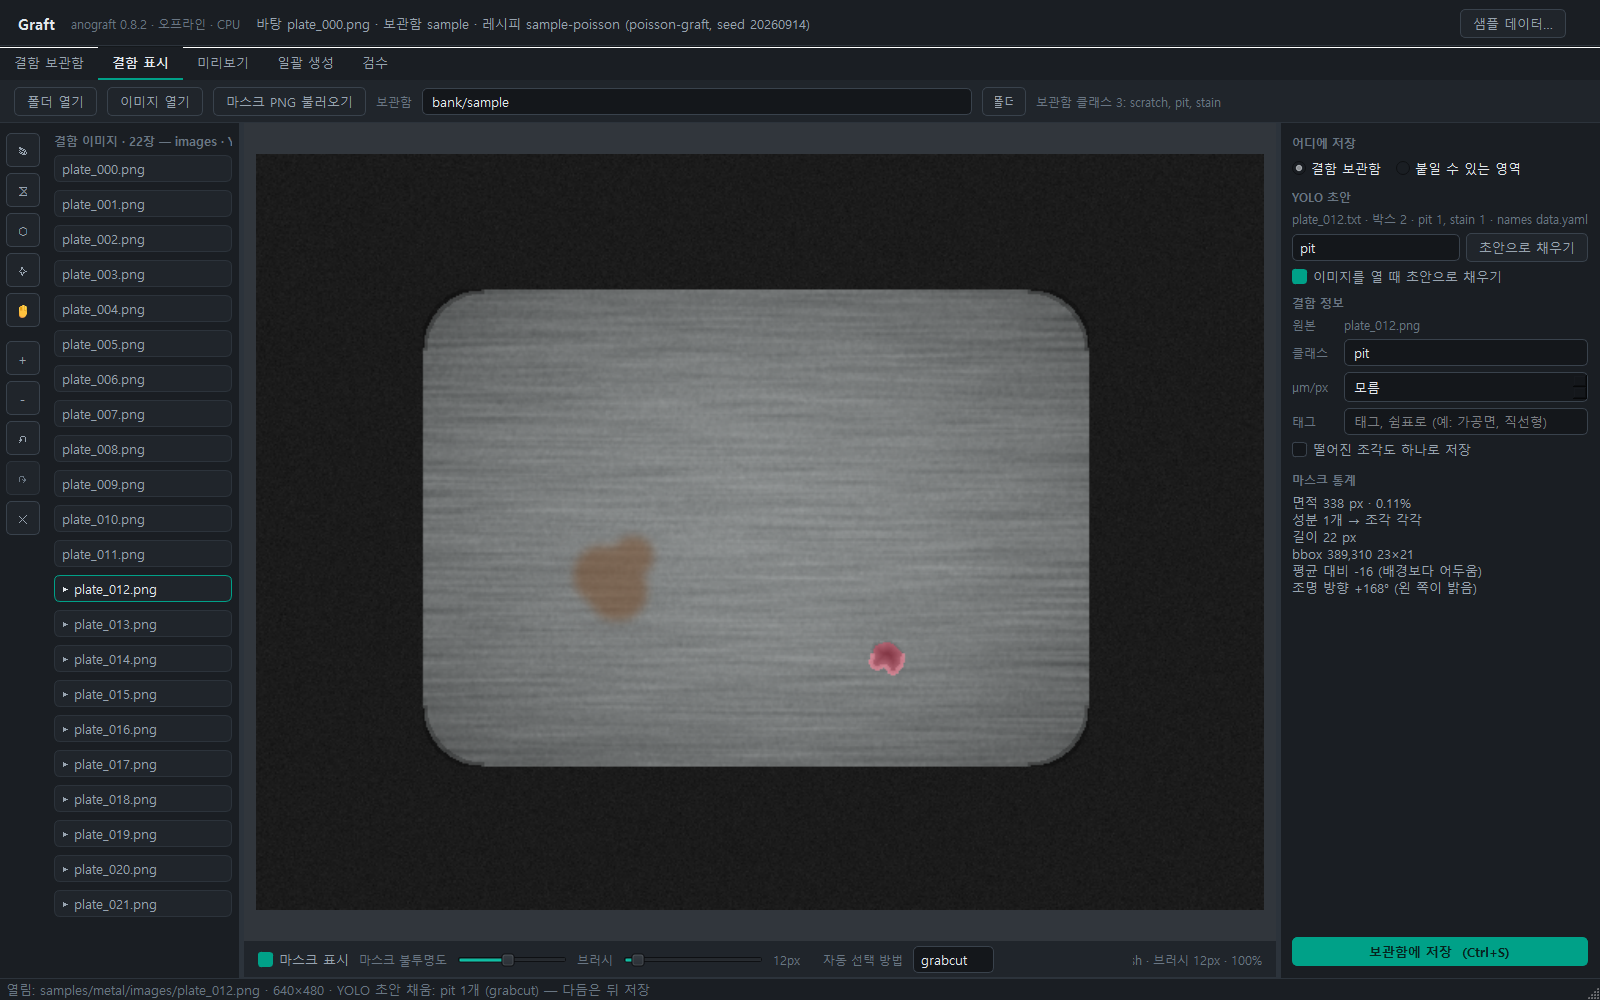
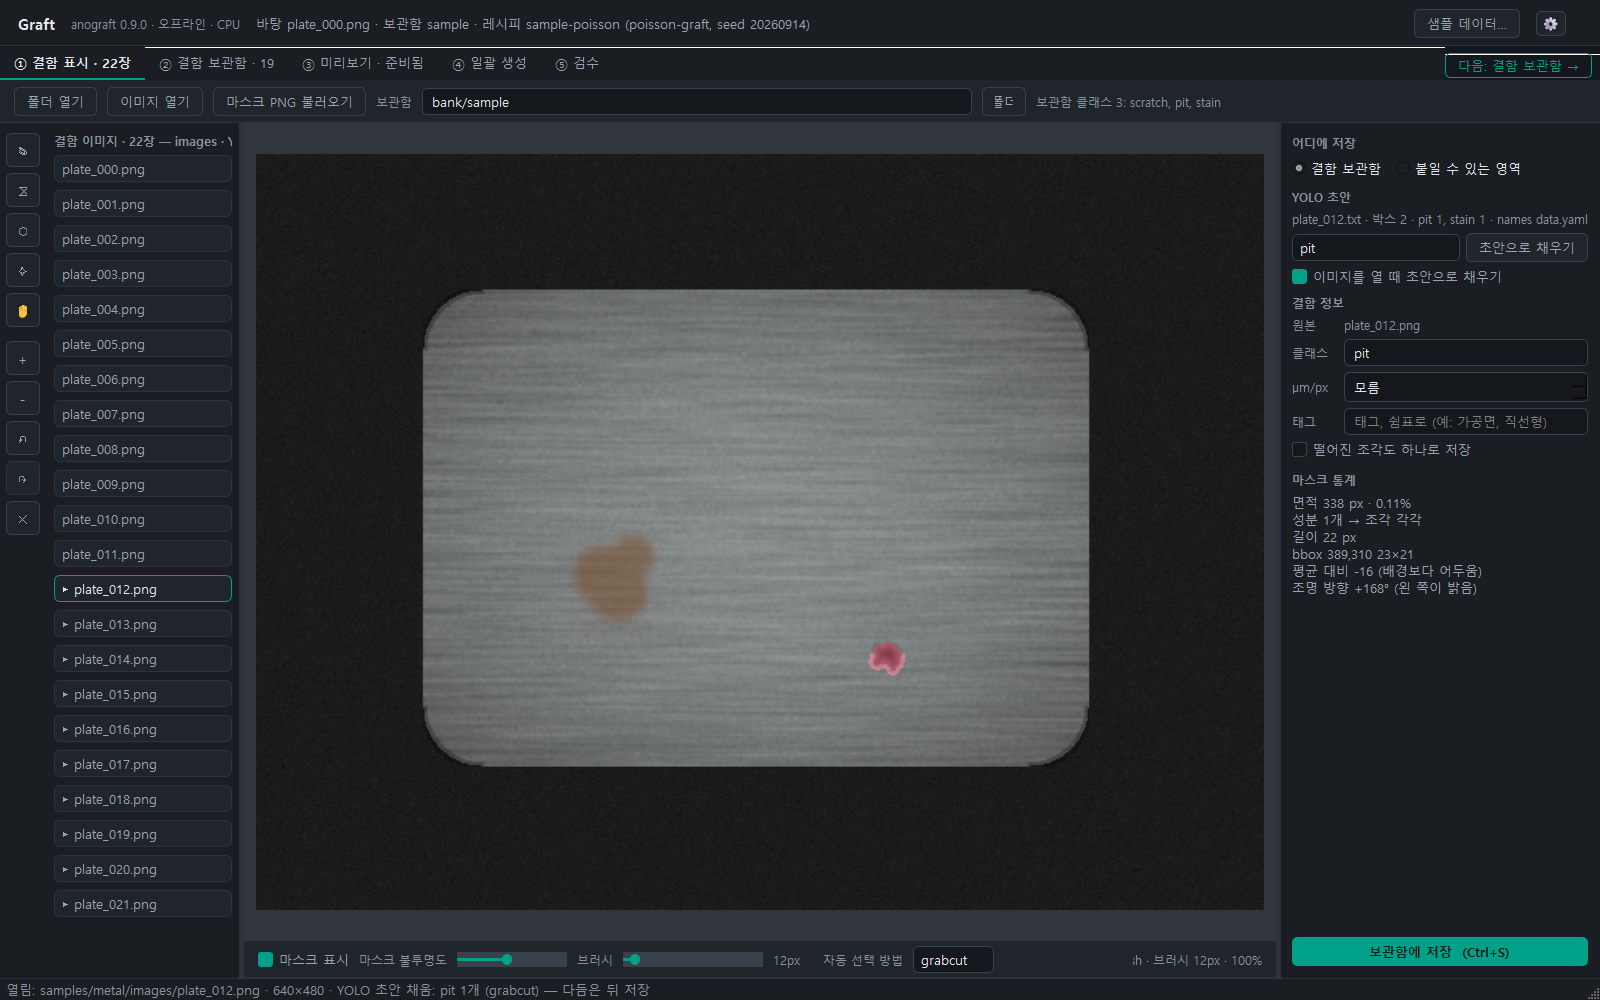
chore(release): v0.9.0 — 사용성 릴리스(한국어 라벨·파라미터 도움말·카드 폼 v2·프리셋 갤러리·흐름 배지·경고 컴포넌트·대비 힌트·테마)
- 버전 0.9.0 · CHANGELOG [0.9.0] · releasenotes/v0.9.0.md(ko/en) + index · README 상태 줄 ko/en · TESTING v0.9.0 항목(25~30 복구) · 스크린샷 5장 재촬영
- 기능·스키마 값·출력·골든 불변(v0.8.2 와 같은 결과)

diff --git a/src/anograft/__init__.py b/src/anograft/__init__.py
@@ -1,3 +1,3 @@
 """anograft — Graft 코어. 라벨링한 결함을 정상 이미지에 이식해 학습용 이상 데이터셋을 만든다."""
 
-__version__ = "0.8.2"
+__version__ = "0.9.0"

diff --git a/releasenotes/v0.9.0.md b/releasenotes/v0.9.0.md
@@ -1,0 +1,39 @@
+# v0.9.0 — 2026-09-19
+
+> **사용성 릴리스.** 기능은 v0.8.2 그대로이고 화면·문구·설명을 처음 쓰는 사람 눈으로 다시 만들었습니다 — 알고리즘·레시피 값·출력·골든은 바뀌지 않습니다. 근거는 현재 GUI 5탭 감사 + Blender 툴팁 가이드·VS Code 설정·Lightroom·Roboflow·Toss UX 라이팅 패턴. 전 과정 오프라인·로컬·CPU.
+
+## 바뀐 것
+
+- **용어와 라벨** — 화면 문구는 한국어 하나, 영어 이름·YAML 키는 툴팁 둘째 줄. 탭은 흐름 순서로 `① 결함 표시 → ② 결함 보관함 → ③ 미리보기 → ④ 일괄 생성 → ⑤ 검수`, 7단계는 `결함 고르기 · 크기·회전 · 위치 정하기 · 붙이기 · 색·밝기 맞추기 · 카메라 효과 · 정답 영역`. 은행→결함 보관함, 소스→결함 조각, 대상→바탕 이미지, 저신뢰→마스크 신뢰도 낮음, 폴백→대체 처리, skipped→건너뜀, 정리본→정리된 데이터셋, 실측 CSV→현장 측정값. "배치"가 Batch(일괄 생성)와 Placement(위치 정하기)로 갈렸습니다. CLI·YAML 키·사이드카는 그대로.
+- **파라미터 도움말** — 카드 폼 라벨이 한국어+단위(`회전 (°)`), 툴팁 3줄(라벨·YAML 키 / 무엇을 하고 올리면·내리면 어떻게 되는지 / 영어·형식·범위). method 콤보도 한국어 표시명+요약. 같은 문장을 CLI에서 `anograft explain geometry.scale` · `explain blend:poisson` · `explain preset:dent-graft`, 전체 표는 **`PARAMS.md`**. 도움말이 없는 필드·method·프리셋은 테스트가 막습니다.
+- **카드 폼** — 프리셋 값과 다른 행은 teal 라벨 + ↺ 되돌리기, 카드 헤더 `바뀜 n · ↺`. 자주 안 만지는 값은 **고급 옵션** 아래 접힘(펼침 기억). 세기·임계는 슬라이더(더블클릭 = 되돌리기). 색·밝기 맞추기/카메라 효과는 헤더 체크로 켜고 끕니다. 0.7.5부터 카드가 오른쪽에서 잘리던 레이아웃 문제도 고쳤습니다.
+- **프리셋 갤러리** — 프리셋 옆 `고르기…`: 10개 프리셋을 제목·한 줄·이럴 때·피할 때·근거와 **지금 고른 바탕 이미지에 적용한 썸네일**로 비교하고 더블클릭으로 적용.
+- **작업 흐름** — 탭 이름에 상태 배지(`② 결함 보관함 · 19`, `⑤ 검수 · 미검수 40`), 탭 바 오른쪽 `다음: … →`, 레시피가 없을 때 시작 체크리스트(된 단계는 ✓).
+- **경고와 힌트** — 카드 경고+고치기 버튼, 재검증 오류, 검수 탭의 대비·조명 힌트가 한 모양(아이콘·문장·행동). 핵심 경고 3종(축척·마스크 신뢰도·빛 방향)은 "무엇이 · 왜 → 이렇게" 문장으로. 일괄 생성 로그에 같은 경고가 3번 찍히던 것을 1번으로. **대비 힌트**: 클래스별 합성 대비 중앙값이 실제의 절반 미만이면 "이 클래스만 relative-paste 로 갈라 보라"(검수 탭·리포트·`dataset report`).
+- **테마·글자 크기** — 상단 ⚙: 라이트/다크, 글자 100/115/130 %(다음 실행 때 적용). 다크 보조 텍스트 대비를 4.5:1 이상으로.
+
+## 알아 둘 것
+
+- README·릴리스 노트의 용어도 새 사전을 따릅니다. 개발 문서·CLI 도움말의 영어 식별자(`bank`, `source`, `targets`)는 그대로입니다.
+- `PARAMS.md`는 `anograft explain --out PARAMS.md`로 만듭니다(Windows에서 `>` 리다이렉트는 CRLF).
+
+---
+
+## English
+
+> **Usability release.** Features are those of v0.8.2; the screens, wording and explanations were remade from a first-time user's point of view — algorithms, recipe values, outputs and goldens are unchanged. Grounded in an audit of the five GUI tabs plus Blender's tooltip guidelines, VS Code settings, Lightroom, Roboflow and Toss UX-writing patterns. Fully offline, local, CPU-only.
+
+## What changed
+
+- **Terms and labels** — UI text is Korean only; English names and YAML keys live on the second tooltip line. Tabs follow the workflow `① Label → ② Bank → ③ Studio → ④ Batch → ⑤ Review`, the seven stages are verbs (pick defect · size/rotation · place · paste · match colour/brightness · camera effects · GT area). The Korean word for "batch" no longer doubles as "placement". CLI, YAML keys and sidecars are untouched.
+- **Parameter help** — card labels in Korean with units, 3-line tooltips (label · YAML key / what it does and what raising or lowering changes / English · type · range); method combos show readable names with a summary. The same text from the CLI: `anograft explain geometry.scale`, `explain blend:poisson`, `explain preset:dent-graft`; the whole table is **`PARAMS.md`**. A test fails if any field, method or preset lacks help.
+- **Card form** — rows that differ from the preset get a teal label and a ↺ reset, the header shows `changed n · ↺`; rarely touched values fold under **Advanced**; strengths/thresholds get sliders (double-click resets); harmonize/degrade have an on/off box. A layout bug that clipped the cards since 0.7.5 is fixed.
+- **Preset gallery** — `Choose…` next to the preset: all ten presets as cards (title, one-liner, use for / avoid, evidence) with **thumbnails rendered on the currently selected target image**; double-click applies.
+- **Workflow** — status badges in tab names, a `Next →` button, and a start checklist when no recipe is open.
+- **Notices** — card warnings + fix button, validation errors and the review tab's contrast/lighting hints share one component; the three core warnings read "what · why → do this"; batch log no longer repeats warnings three times. **Contrast hint**: when a class's synthetic median contrast is below half of the real one, the review tab, report and `dataset report` suggest splitting that class onto `relative-paste`.
+- **Theme and font size** — ⚙ in the top bar: light/dark and 100/115/130 % font scale (applied on next start); dark secondary text now meets 4.5:1.
+
+## Notes
+
+- README and release notes follow the new glossary; developer docs and CLI identifiers (`bank`, `source`, `targets`) keep the English names.
+- Regenerate `PARAMS.md` with `anograft explain --out PARAMS.md` (a `>` redirect on Windows writes CRLF).

diff --git a/README.md b/README.md
@@ -12,7 +12,7 @@
 
 ![원본 | 합성 | GT](assets/preview.png)
 
-> **상태: v0.8.2** — CLI 코어(7단계 파이프라인 · 레시피 · 결함 보관함(bank) · YOLO/MVTec/COCO 출력 · 프리셋 10종 · 보관함 없이 도는 self-cut/perlin · 구조 정합 배치 · GrabCut·annulus ROI · VisA·DTD 어댑터)와 GUI **① 결함 표시 · ② 결함 보관함 · ③ 미리보기 · ④ 일괄 생성 · ⑤ 검수** 5탭(흐름 순서, 상태 배지·'다음 →'·시작 체크리스트 · ⚙ 라이트 테마·글자 크기) — 결함 사진만 있으면 GUI 만으로 마스크 그리기 → 보관함 정리 → 미리보기 → 일괄 생성 → 검수·정리된 데이터셋까지. 실데이터 1차 적용(경면 금속 원형 부품)에서 나온 [알려진 문제 10건](KNOWN-ISSUES.md)을 v0.6 에서 보정. **2차 실데이터 적용은 아직 미검증**(데이터가 생기면 아래 3줄로 확인). 공개 데이터(MVTec metal_nut)에선 합성 유/무 YOLO mAP50 **0.31 → 0.38**(grabcut 보관함) / **→ 0.45**(hybrid 보관함) — 같은 분할·학습 시드 3개 평균(`BENCHMARKS.md`; Magnetic Tile 은 한 프리셋으론 break +0.23 · blowhole −0.30 으로 갈려 합계 −0.02 였지만, blowhole 만 `relative-paste` 로 갈라 `dataset merge` 하니 **0.46 → 0.61(+0.15, 3/3)** — 결함 성격별 프리셋). 표준셋 실제 사본(MVTec metal_nut·screw·grid·bottle·hazelnut·carpet · Magnetic Tile · VisA · DTD)으로는 v0.8 에서 리허설·벤치 완료 — `TESTING.md` · `KNOWN-ISSUES.md` 결정 근거 절.
+> **상태: v0.9.0** — CLI 코어(7단계 파이프라인 · 레시피 · 결함 보관함(bank) · YOLO/MVTec/COCO 출력 · 프리셋 10종 · 보관함 없이 도는 self-cut/perlin · 구조 정합 배치 · GrabCut·annulus ROI · VisA·DTD 어댑터)와 GUI **① 결함 표시 · ② 결함 보관함 · ③ 미리보기 · ④ 일괄 생성 · ⑤ 검수** 5탭(흐름 순서, 상태 배지·'다음 →'·시작 체크리스트 · ⚙ 라이트 테마·글자 크기) — 결함 사진만 있으면 GUI 만으로 마스크 그리기 → 보관함 정리 → 미리보기 → 일괄 생성 → 검수·정리된 데이터셋까지. 실데이터 1차 적용(경면 금속 원형 부품)에서 나온 [알려진 문제 10건](KNOWN-ISSUES.md)을 v0.6 에서 보정. **2차 실데이터 적용은 아직 미검증**(데이터가 생기면 아래 3줄로 확인). 공개 데이터(MVTec metal_nut)에선 합성 유/무 YOLO mAP50 **0.31 → 0.38**(grabcut 보관함) / **→ 0.45**(hybrid 보관함) — 같은 분할·학습 시드 3개 평균(`BENCHMARKS.md`; Magnetic Tile 은 한 프리셋으론 break +0.23 · blowhole −0.30 으로 갈려 합계 −0.02 였지만, blowhole 만 `relative-paste` 로 갈라 `dataset merge` 하니 **0.46 → 0.61(+0.15, 3/3)** — 결함 성격별 프리셋). 표준셋 실제 사본(MVTec metal_nut·screw·grid·bottle·hazelnut·carpet · Magnetic Tile · VisA · DTD)으로는 v0.8 에서 리허설·벤치 완료 — `TESTING.md` · `KNOWN-ISSUES.md` 결정 근거 절.
 
 ## 왜
 
@@ -166,7 +166,7 @@ MIT © 2026 slnu21 — `LICENSE`. 함께 배포되는 구성 요소(PySide6/Qt L
 
 **Graft real, labeled defects onto normal images to build training datasets for anomaly detection — with ground-truth masks and full reproducibility metadata.** Package/CLI: `anograft`. Fully offline, CPU-only; the Windows zip needs no Python.
 
-> **Status: v0.8.2** — CLI core (7-stage pipeline, recipes, defect bank, YOLO/MVTec/COCO output, 10 presets, bank-free self-cut/perlin sources, structure-aware placement, GrabCut/annulus ROI, VisA/DTD adapters) plus all five GUI tabs **Bank · Label · Studio · Batch · Review** — with only defect photos you can label → tidy the bank → preview → generate → review and export a pruned set entirely in the GUI. The [10 known issues](KNOWN-ISSUES.md) from a first real-data application (mirror-finish round metal part) are addressed in v0.6. **A second real-data pass is still unverified** — three commands once you have data (below). On public data (MVTec metal_nut) synthetic augmentation lifted YOLO mAP50 **0.31 → 0.38** (grabcut bank) / **→ 0.45** (hybrid bank), mean of three training seeds on a fixed split (`BENCHMARKS.md`; on Magnetic Tile one preset diverged per class — break +0.23, blowhole −0.30, net −0.02 — but splitting only blowhole onto `relative-paste` and merging with `dataset merge` gives **0.46 → 0.61 (+0.15, 3/3)** — presets per defect type). Real public copies (MVTec metal_nut/screw/grid/bottle/hazelnut/carpet, Magnetic Tile, VisA, DTD) were rehearsed and benchmarked in v0.8 — see `TESTING.md` and the evidence section of `KNOWN-ISSUES.md`.
+> **Status: v0.9.0** — CLI core (7-stage pipeline, recipes, defect bank, YOLO/MVTec/COCO output, 10 presets, bank-free self-cut/perlin sources, structure-aware placement, GrabCut/annulus ROI, VisA/DTD adapters) plus all five GUI tabs **① Label · ② Bank · ③ Studio · ④ Batch · ⑤ Review** (v0.9: Korean-first labels with English/YAML keys in tooltips, parameter help, preset gallery, workflow badges, light theme) — with only defect photos you can label → tidy the bank → preview → generate → review and export a pruned set entirely in the GUI. The [10 known issues](KNOWN-ISSUES.md) from a first real-data application (mirror-finish round metal part) are addressed in v0.6. **A second real-data pass is still unverified** — three commands once you have data (below). On public data (MVTec metal_nut) synthetic augmentation lifted YOLO mAP50 **0.31 → 0.38** (grabcut bank) / **→ 0.45** (hybrid bank), mean of three training seeds on a fixed split (`BENCHMARKS.md`; on Magnetic Tile one preset diverged per class — break +0.23, blowhole −0.30, net −0.02 — but splitting only blowhole onto `relative-paste` and merging with `dataset merge` gives **0.46 → 0.61 (+0.15, 3/3)** — presets per defect type). Real public copies (MVTec metal_nut/screw/grid/bottle/hazelnut/carpet, Magnetic Tile, VisA, DTD) were rehearsed and benchmarked in v0.8 — see `TESTING.md` and the evidence section of `KNOWN-ISSUES.md`.
 
 ### Why
 

diff --git a/releasenotes/README.md b/releasenotes/README.md
@@ -2,6 +2,7 @@
 
 최신순. 1 버전 = 1 파일. GitHub Release 본문은 각 파일을 그대로 쓴다.
 
+- [v0.9.0](v0.9.0.md) — 2026-09-19 · **사용성**: 한국어 단독 라벨(영어·YAML 키는 툴팁) · 7단계 동사형 · 카드 한글 라벨+설명 툴팁 · `anograft explain`/`PARAMS.md` · 바뀜 ↺·고급 접기·슬라이더 · 프리셋 갤러리 · 탭 흐름 배지·다음 →·체크리스트 · 경고/힌트 한 컴포넌트·대비 힌트 · 라이트 테마·글자 크기
 - [v0.8.2](v0.8.2.md) — 2026-09-19 · 결함 성격별 프리셋: `harmonize.relative`(노출 보정) + `relative-paste` · `recipe init --classes` → `run` × n → `dataset merge` · `BENCHMARKS.md` §2(Magnetic Tile blowhole 만 갈라 mAP50 0.46 → 0.61, +0.15 3/3)
 - [v0.8.1](v0.8.1.md) — 2026-09-17 · `BENCHMARKS.md`(합성 유/무 mAP 0.27 → 0.37 · 박스→마스크 IoU) · `source.redraw_on_empty`·`single_class_per_image` · `geometry.tps` · `output.root` 폴백 · `run --roi-cache` · `merge --dedupe-normals` · 샘플 데이터 대화상자
 - [v0.8.0](v0.8.0.md) — 2026-09-17 · 공개 데이터 리허설의 결과: `dataset merge` · 배치 가능성 진단 v2(짧은 변·정렬·축척) · `source:`/`targets:` 경고 · 검수 클래스 콤보·실측 CSV · `--mask-from hybrid`(옵션) · 벤치·받기 도구 · `TESTING.md`
